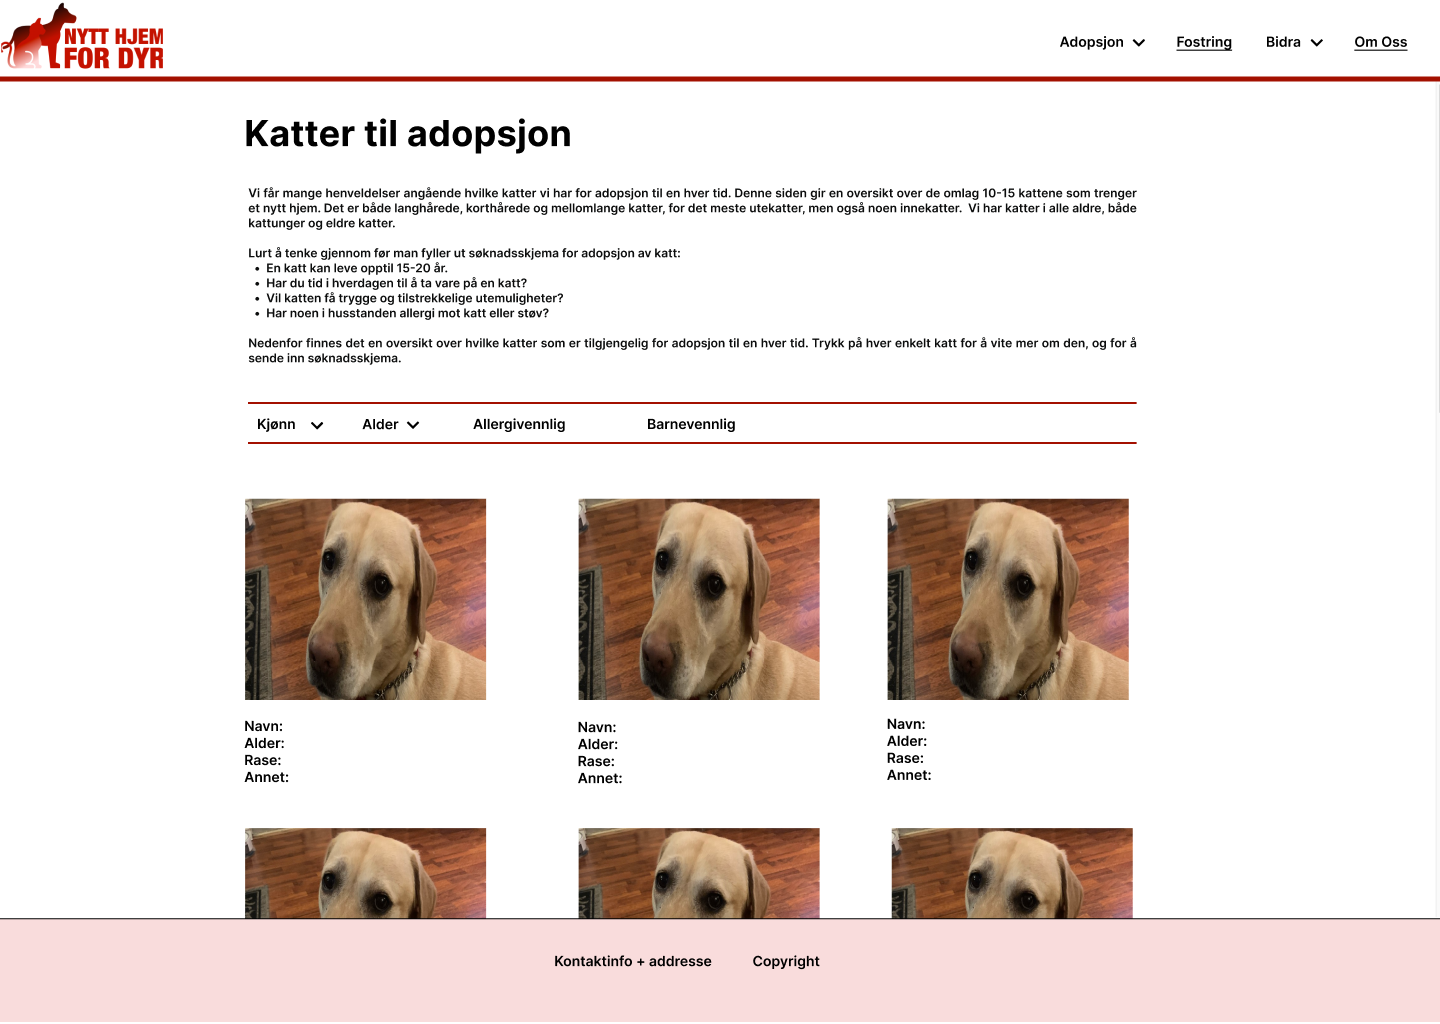
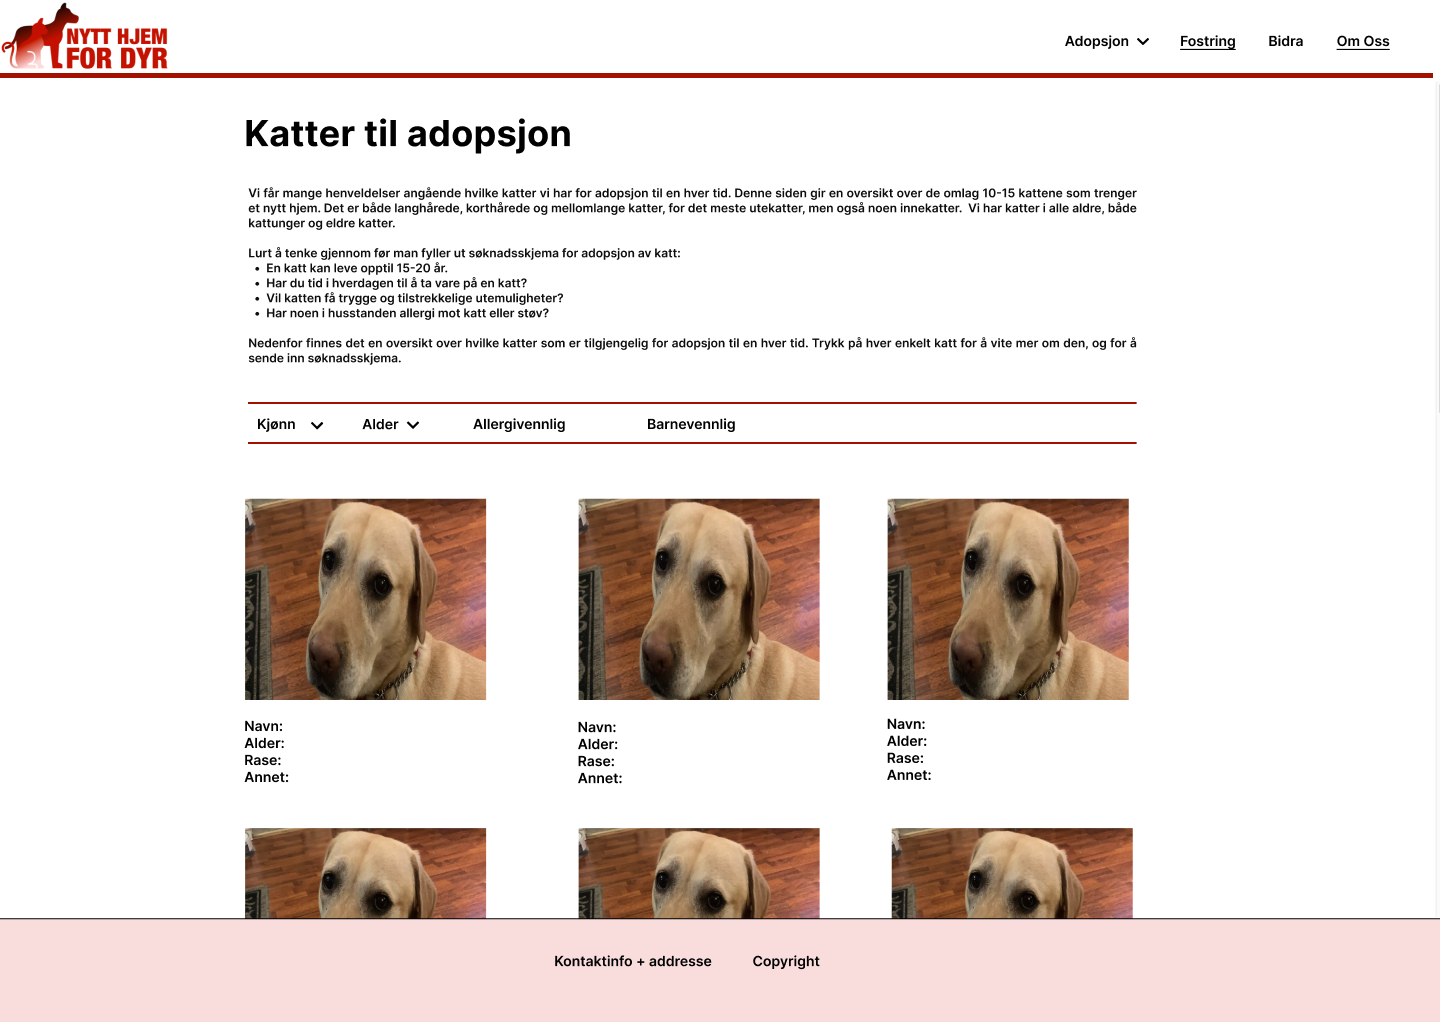
Oppdatert navbar på bildene, la til border rundt bildene

Changed region(s): [[0.0, 0.0, 1.0, 0.0938]]

diff --git a/p2/css/style.css b/p2/css/style.css
@@ -37,8 +37,13 @@ li > p,  .normal-font > li{
 img {
     width: 100%;
     height: 100%;
+    border: 1px solid black;
 }
 
-table, td, td {
-    border: black solid 3px;
+table, td, th {
+    border: 1px solid black;
+}
+
+td, th {
+    padding: 5px;
 }
